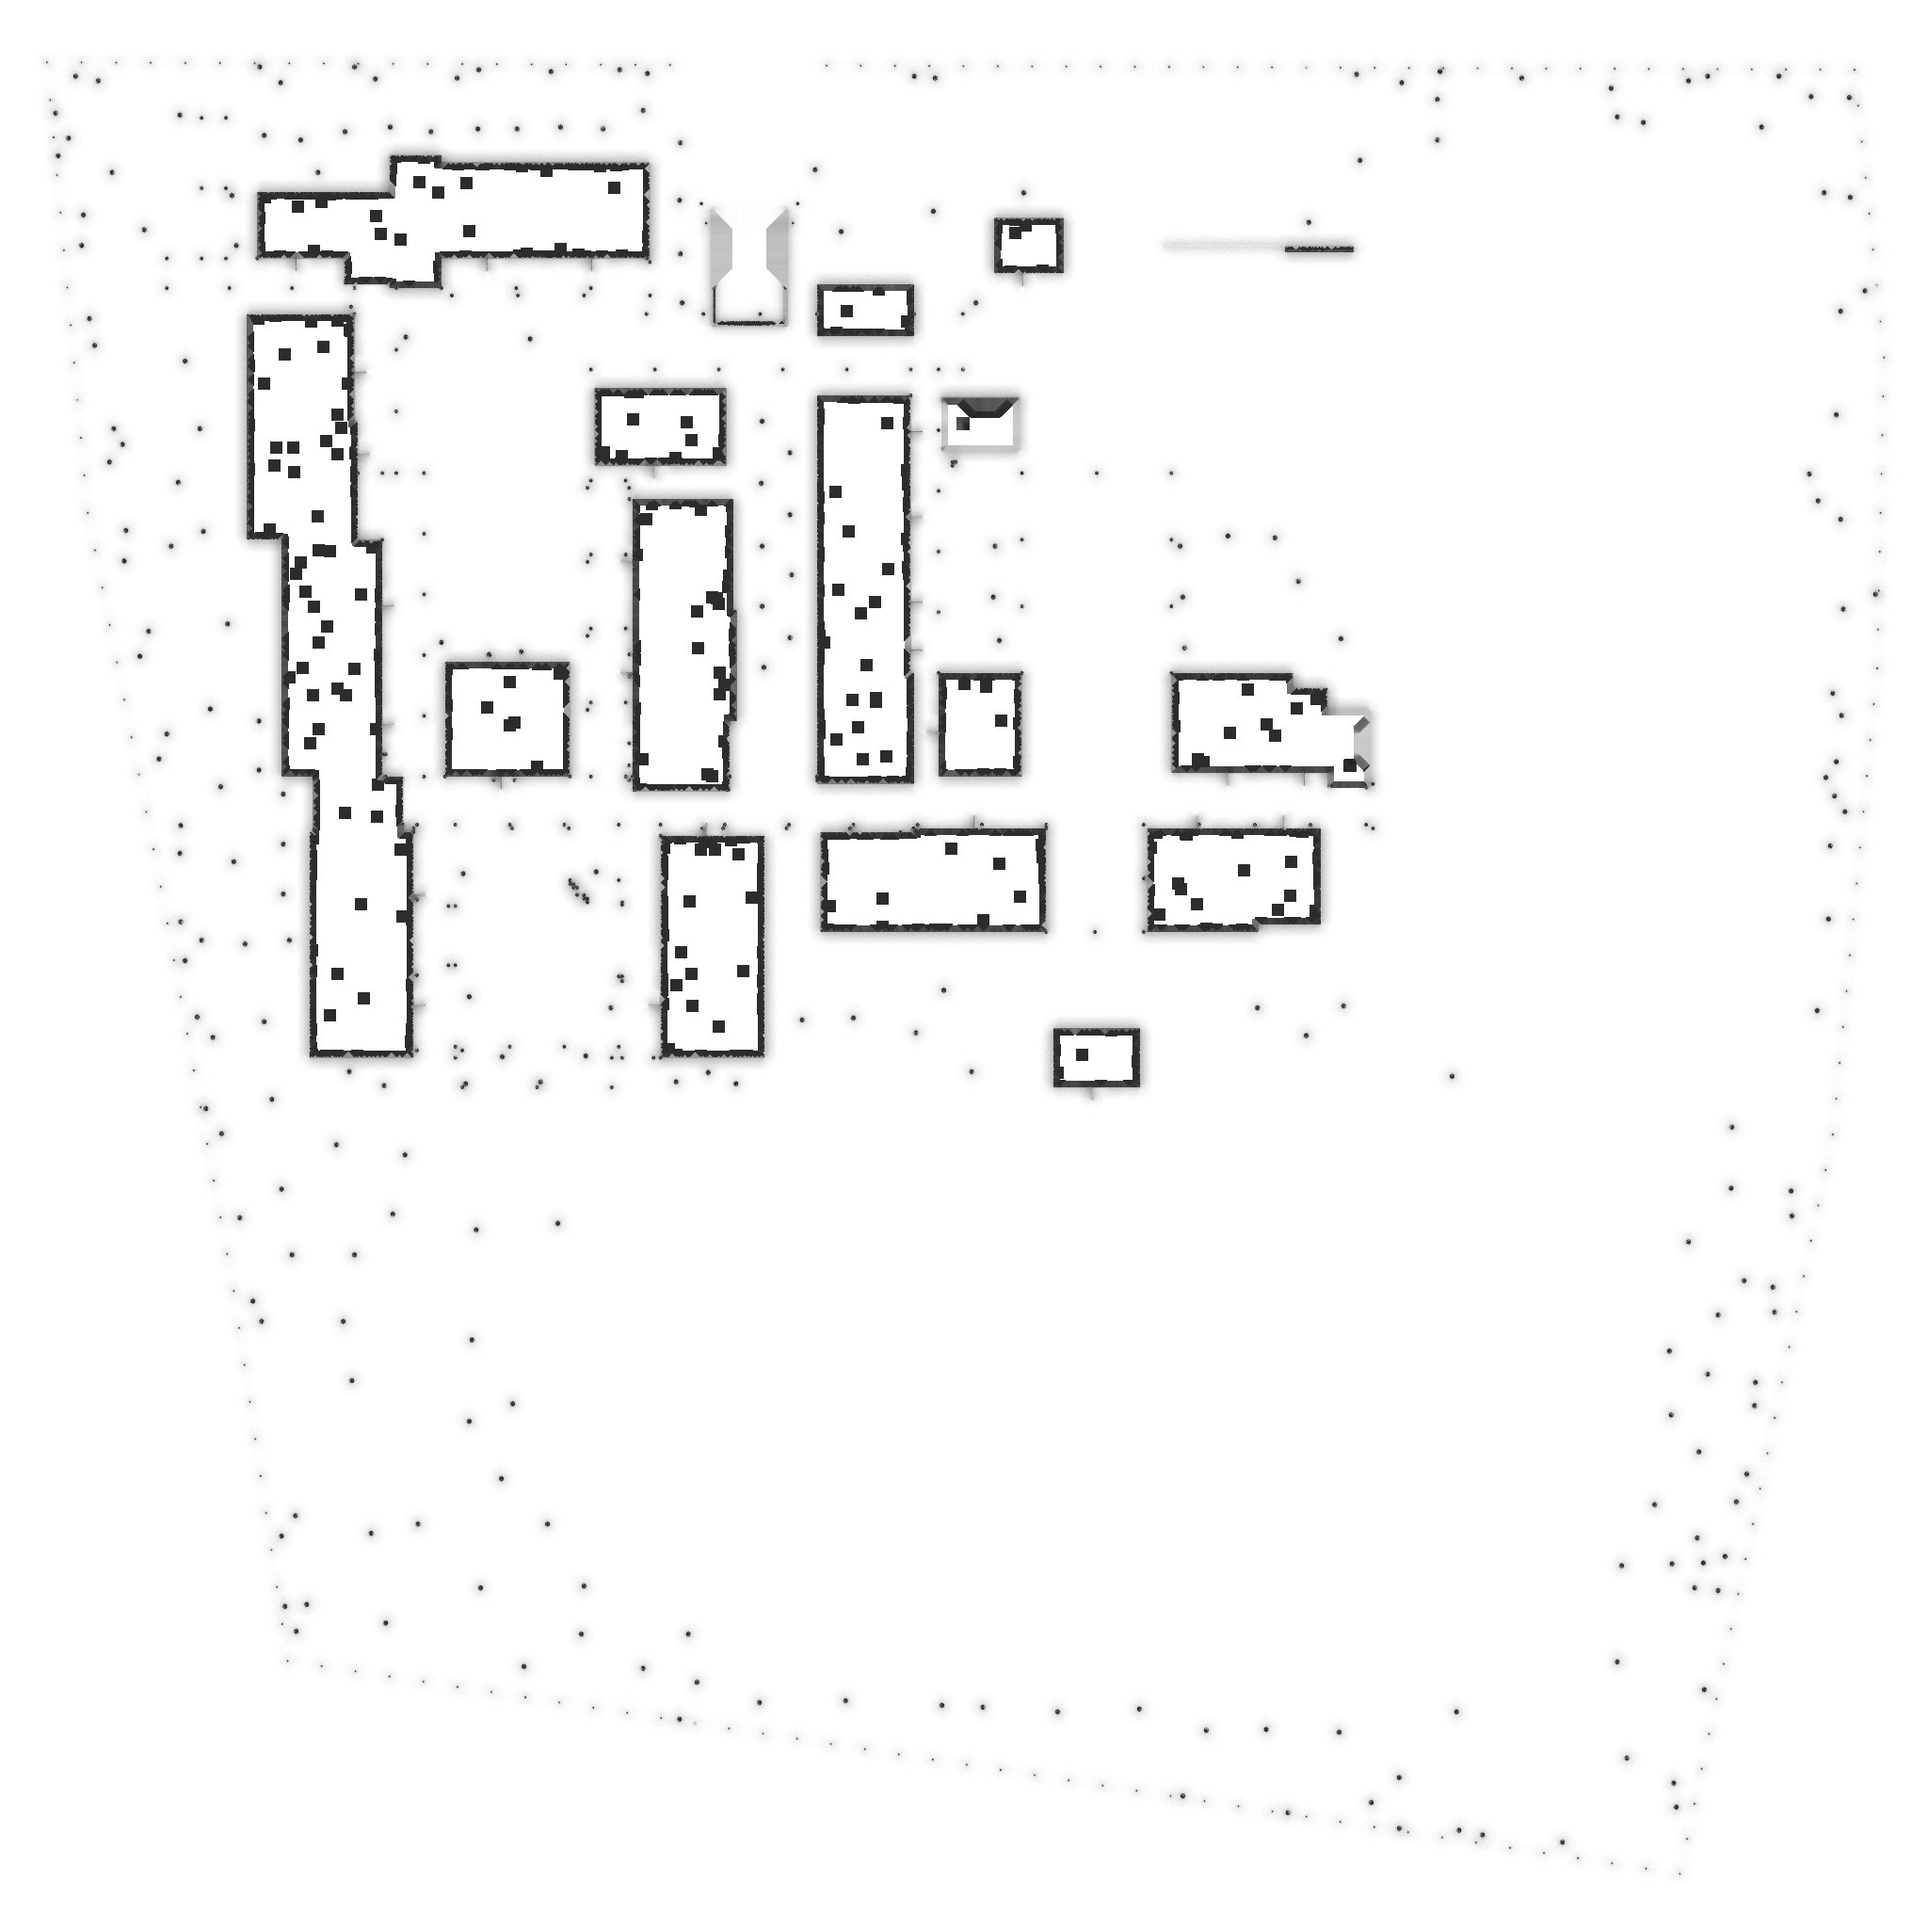
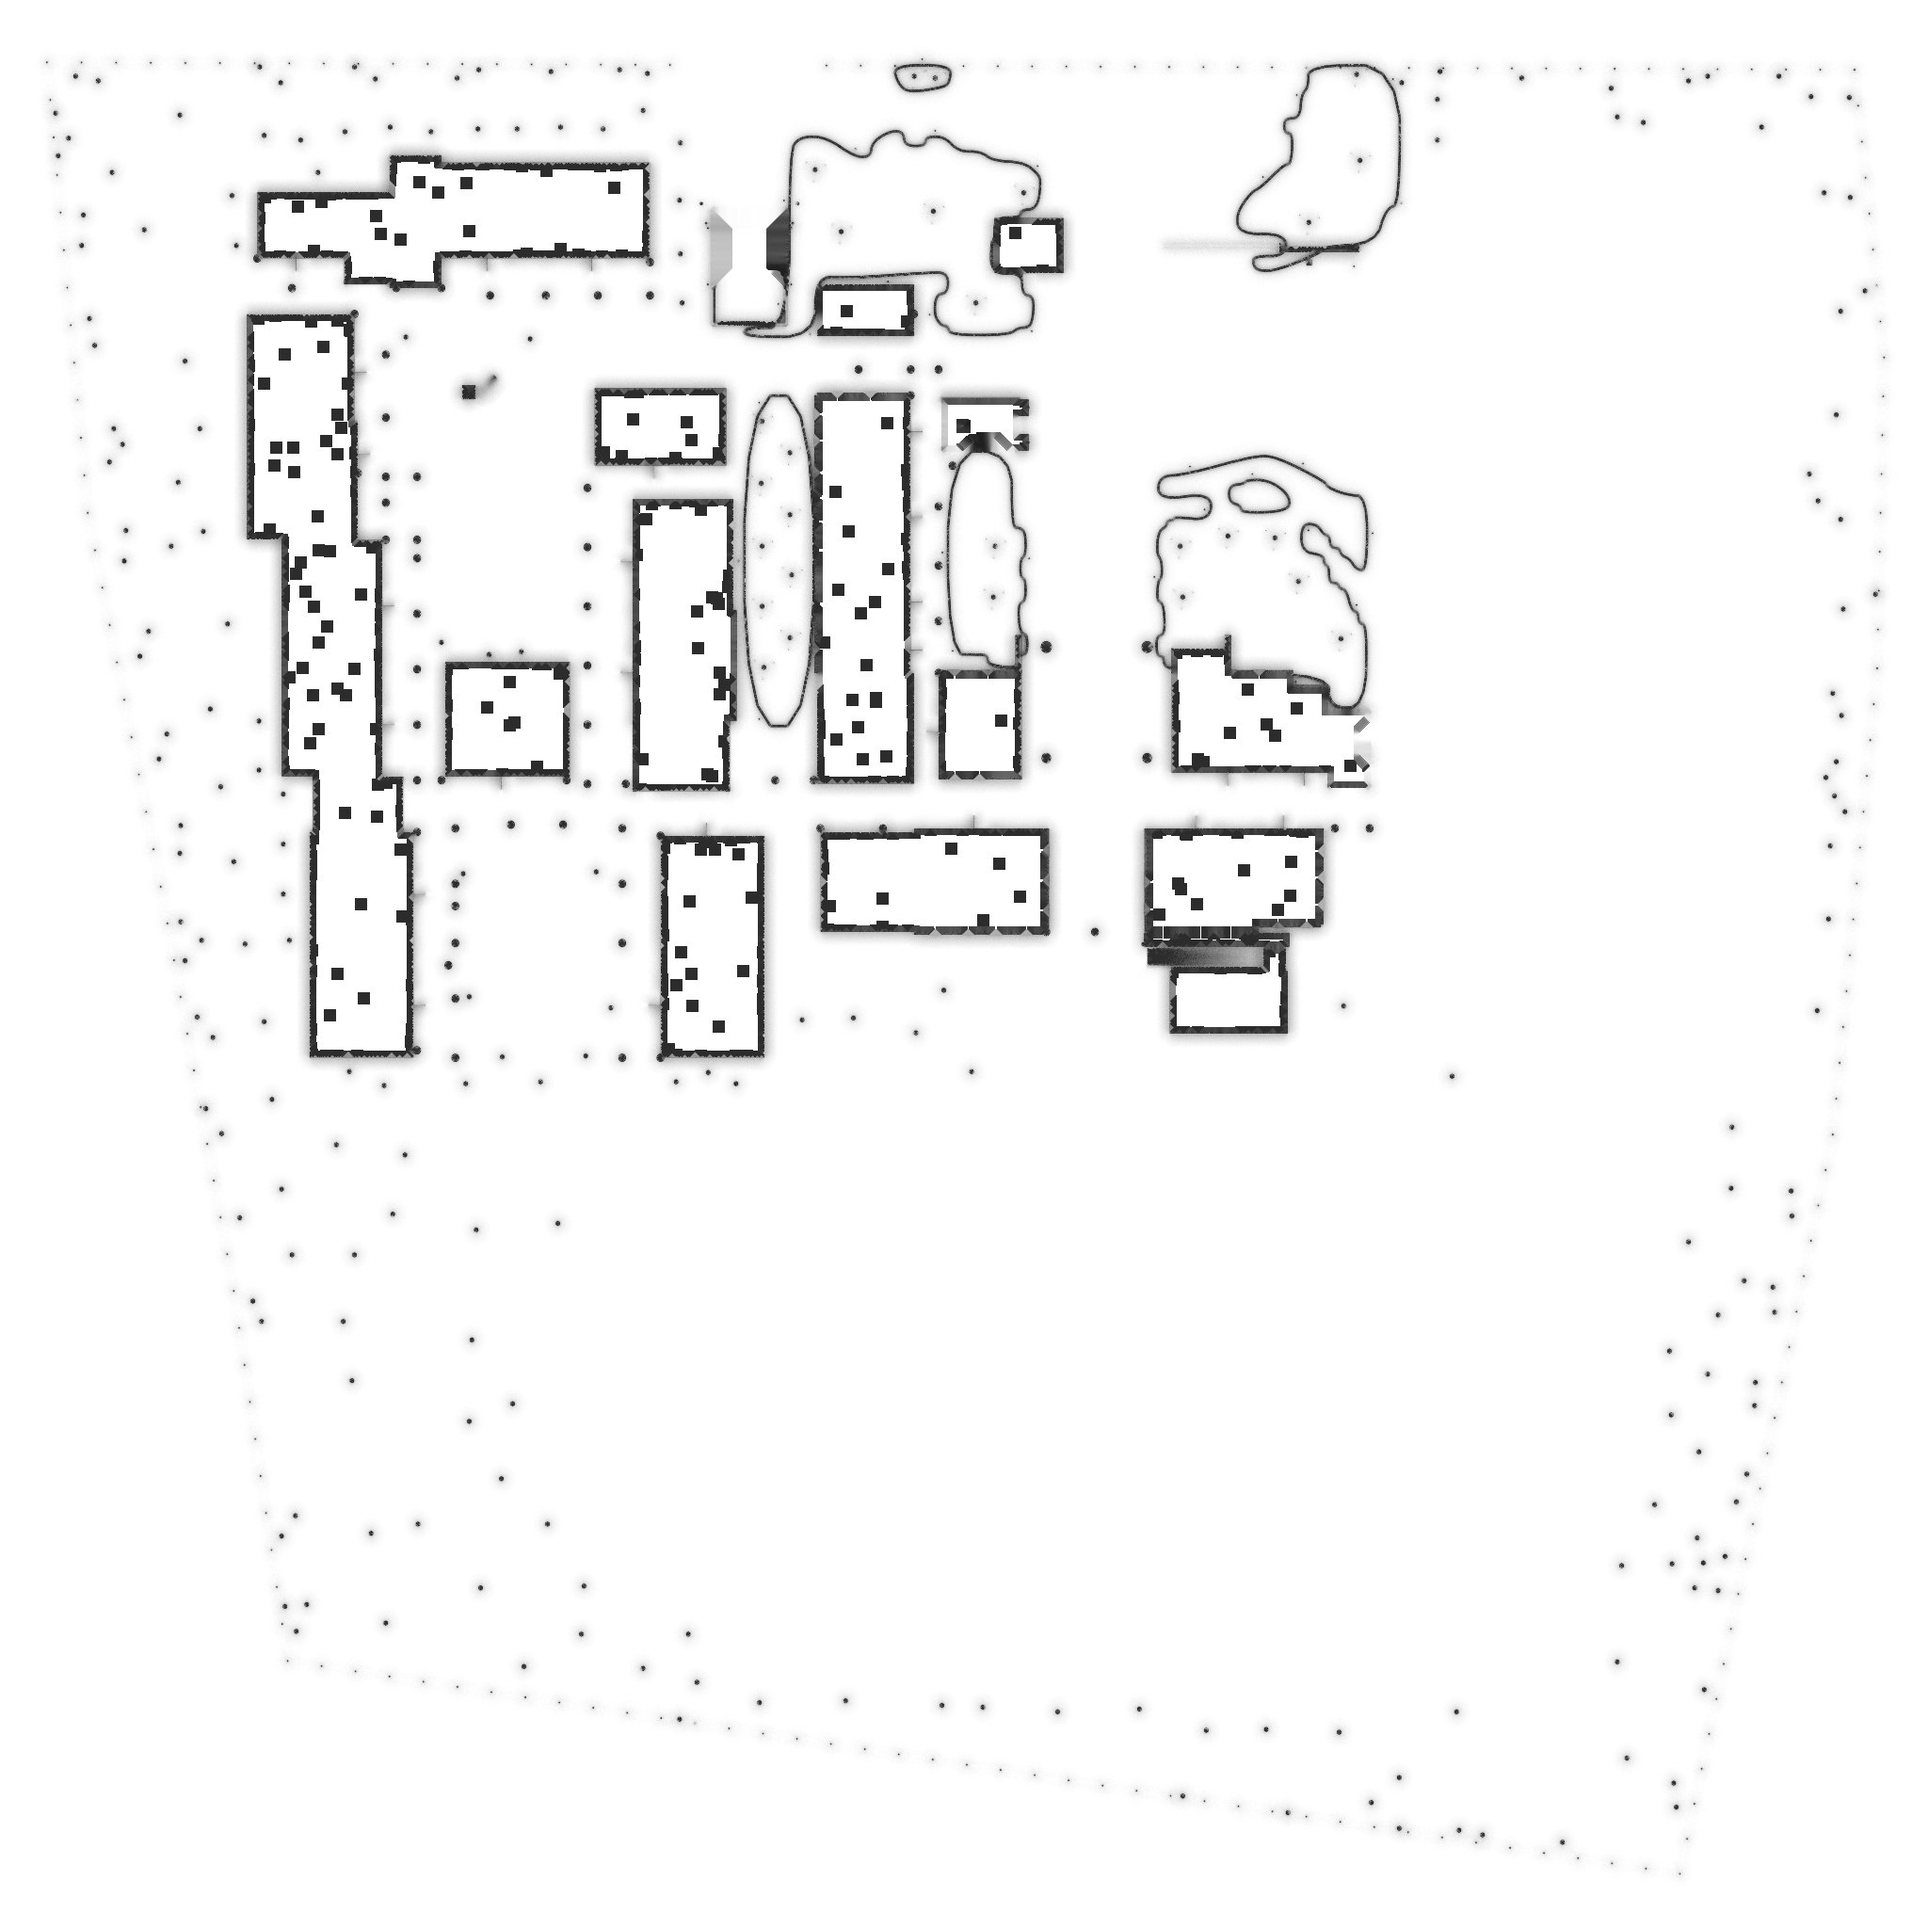
feat(round3): Phase 0 收尾：AO 重烘一次（簽章 288d190a）＋修第一幀負 dt 讓小地圖延遲＋全部測試（不再 --stale-ok）

diff --git a/campus-atlas/slice/src/main_dx.js b/campus-atlas/slice/src/main_dx.js
@@ -70,7 +70,7 @@ function update(dt) {
 const timer = new THREE.Timer();
 const AUTO_DEGRADE = new URLSearchParams(location.search).get('degrade') !== '0';   // ?degrade=0：不自動關陰影／AO（量測用）
 let frozen = false;   // __dx.view 拍照時暫停主迴圈
-function loop(ts) { requestAnimationFrame(loop); timer.update(ts); if (frozen) return; const raw = timer.getDelta(); if (AUTO_DEGRADE) { stage.lighting.watch(raw); stage.ao.watch(raw); } update(Math.min(raw, 0.05)); stage.render(); }
+function loop(ts) { requestAnimationFrame(loop); timer.update(ts); if (frozen) return; const raw = Math.max(0, timer.getDelta()); if (AUTO_DEGRADE) { stage.lighting.watch(raw); stage.ao.watch(raw); } update(Math.min(raw, 0.05)); stage.render(); }   // 第一幀：rAF 時戳可能早於啟動時的 performance.now()（載入很忙時差到數秒）→ 負的 dt，曾讓 HUD／小地圖延遲約 2 秒才畫
 
 window.__dx = { S, m, world, nav, setDest: guide.setDest, startRoute: guide.startRoute, gotoFloor: guide.gotoFloor, setMode: ui.setMode, teleportTo: guide.teleportTo, cancelRoute: guide.cancelRoute, keys: input.keys, THREE, TARGETS,
   tick(dt) { update(dt); },
